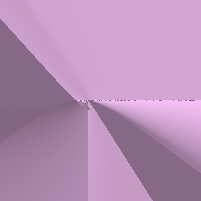
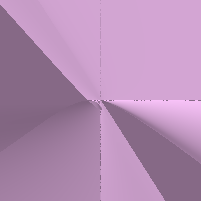
Adding some animation

diff --git a/anim.py b/anim.py
@@ -1,10 +1,12 @@
 # coding=utf-8
-
 from rayon import *
-import math
 from multiprocessing import Process
+import math
+import glob
+import time
+import os
+
 pi = 4. * math.atan(1.)
-#math.pi
 
 def rotaz( pt, theta):
 	c= math.cos( theta)
@@ -25,7 +27,15 @@ def string_of_int( n, nbch):
 		ch = ch + str( tabstr[i])  # ch += str( tabstr[i])
 	return ch
 
-def anim( cam, obj, nb, nom):
+def anim(cam, obj, nb, nom):
+	folder_name = nom.split('/')[0] # on récupère le nom du dossier
+
+	if not os.path.exists('./'+folder_name): # si le dossier n'existe pas on le crée
+		os.makedirs(folder_name)
+
+	t0= time.time()
+	print("starting "+folder_name+" imgs generation")
+	processes = []
 	for i in range( 0, nb):
 		theta= 2. * pi * float( i) / float( nb)
 		o2 = rotaz( cam.o, theta)
@@ -35,37 +45,135 @@ def anim( cam, obj, nb, nom):
 		cam2 = Camera( o2, ox2, oy2, oz2, cam.hsizeworld, cam.hsizewin, cam.soleil)
 		nom2 = nom + string_of_int( i, 10)
 		cam2.nom = nom2+'.png'
-		Process(target=raycasting,args=(cam2, obj)).start()
-		#raycasting( cam2, obj)
+		processes.append(Process(target=raycasting,args=(cam2, obj),name="generate_"+folder_name+"0"))
+	
+	count = 0
+	for p in processes: # on démarre le calcul de toutes les images
+		print(folder_name+"start"+str(count))
+		count+=1
+		p.start()
+	count2 = 0
+	for p in processes: # attend que toutes les images soient généré
+		print(folder_name+"join"+str(count2))
+		count2+=1
+		p.join()
+
+	t1 = time.time() - t0 # calcul le temps passer pour la génération des images
+	print(folder_name+" imgs were generated in "+str(t1)+" s")
+
+	frames = [] # on récupère toutes les images
+	for f in glob.iglob('./'+folder_name+'/*.png'):
+		frames.append(Image.open(f))
+
+	gif=Image.new("RGBA", (2*cam.hsizewin+1, 2*cam.hsizewin+1), (255,255,255,255)) # on crée le gif
+	gif.save('./'+folder_name+'/animation.gif', format='GIF', append_images=frames, save_all=True, duration=100, loop=0)
+	print("gif generated")
+	
 
 #https://imaginary.org/fr/node/2221
 
 tore = Prim(tore(0.45, 1.), (0,0, 255),200)
+zitrus = Prim(zitrus(),(255,200,255),255)
 boule = Prim(boule( (0., 2., -0.5), 1.), (255,0, 0), 150)
-roman = Prim( roman(), (255,200, 255),255)
+roman = Prim(roman(), (255,200, 255),255)
 solitude = Prim(solitude(),(255,200,255),255)
 miau = Prim(miau(),(255,200,255),255)
-zitrus = Prim(zitrus(),(255,200,255),255)
+steiner2 = Prim(steiner2(),(255,255,255),255)
+steiner4 = Prim(steiner4(),(255,255,255),255)
+hyperboloide_2nappes = Prim(hyperboloide_2nappes(),(255,255,255),255)
+hyperboloide_1nappe = Prim(hyperboloide_1nappe(),(255,255,255),255)
+bool_op = Union((Intersection((tore,boule)),Difference((tore,boule)))) # heavy 
 
-def zitrus_anim():
+def tore_anim():
+	object_name = "tore"
 	oeil=(-0,-4,0)
 	droite=  (1.,0.,0.)
 	regard=  (0.,1.,0.)
 	vertical=(0.,0.,1.)
-	#le repere local est tel que regard=oy, vertical=oz, droite=ox, o=oeil
-	#ox, oy,oz orthogonaux et normés
-	camera=Camera(oeil, droite, regard, vertical, 0.75, 100, normalize3((0., -1., 2.)))
-	camera.nom="IMG/zitrus"
-	anim( camera, zitrus, 20, "zitrus/zitrus")
+	camera=Camera(oeil, droite, regard, vertical, 1.5, 100, normalize3((0., -1., 2.)))
+	anim(camera, tore, 20, object_name+"/"+object_name)
 
-def miau_anim():
+def zitrus_anim():
+	object_name = "zitrus"
+	oeil=(-0,-4,0)
 	droite=  (1.,0.,0.)
 	regard=  (0.,1.,0.)
 	vertical=(0.,0.,1.)
-	#le repere local est tel que regard=oy, vertical=oz, droite=ox, o=oeil
-	#ox, oy,oz orthogonaux et normés
-	camera=Camera(oeil, droite, regard, vertical, 8, 100, normalize3((0., -1., 2.)))
-	camera.nom="IMG/miau"
-	anim( camera, miau, 20, "miau/miau")
+	camera=Camera(oeil, droite, regard, vertical, 0.75, 100, normalize3((0., -1., 2.)))
+	anim(camera, zitrus, 20, object_name+"/"+object_name)
 
-zitrus_anim()
+def solitude_anim():
+	object_name = "solitude"
+	oeil=(-0,-4,0)
+	droite=  (1.,0.,0.)
+	regard=  (0.,1.,0.)
+	vertical=(0.,0.,1.)
+	camera=Camera(oeil, droite, regard, vertical, 8, 100, normalize3((0., -1., 2.)))
+	anim(camera, solitude, 20, object_name+"/"+object_name)
+
+
+def miau_anim():
+	object_name = "miau"
+	oeil=(-0,-4,0)
+	droite=  (1.,0.,0.)
+	regard=  (0.,1.,0.)
+	vertical=(0.,0.,1.)
+	camera=Camera(oeil, droite, regard, vertical, 8, 100, normalize3((0., -1., 2.)))
+	anim(camera, miau, 20, object_name+"/"+object_name)
+
+def steiner2_anim():
+	object_name = "steiner2"
+	oeil=(-0,-4,0)
+	droite=  (1.,0.,0.)
+	regard=  (0.,1.,0.)
+	vertical=(0.,0.,1.)
+	camera=Camera(oeil, droite, regard, vertical, 10, 100, normalize3((0., -1., 2.)))
+	anim(camera, steiner2, 20, object_name+"/"+object_name)
+
+def steiner4_anim():
+	object_name = "steiner4"
+	oeil=(-0,-4,0)
+	droite=  (1.,0.,0.)
+	regard=  (0.,1.,0.)
+	vertical=(0.,0.,1.)
+	camera=Camera(oeil, droite, regard, vertical, 5, 100, normalize3((0., -1., 2.)))
+	anim(camera, steiner4, 20, object_name+"/"+object_name)
+
+def hyperboloide_2nappes():
+	object_name = "hyperboloide_2nappes"
+	oeil=(-0,-4,0)
+	droite=  (1.,0.,0.)
+	regard=  (0.,1.,0.)
+	vertical=(0.,0.,1.)
+	camera=Camera(oeil, droite, regard, vertical, 5, 100, normalize3((0., -1., 2.)))
+	anim(camera, hyperboloide_2nappes, 20, object_name+"/"+object_name)
+
+def hyperboloide_1nappes():
+	object_name = "hyperboloide_1nappes"
+	oeil=(-0,-4,0)
+	droite=  (1.,0.,0.)
+	regard=  (0.,1.,0.)
+	vertical=(0.,0.,1.)
+	camera=Camera(oeil, droite, regard, vertical, 5, 100, normalize3((0., -1., 2.)))
+	anim(camera, hyperboloide_1nappes, 20, object_name+"/"+object_name)
+
+def bool_op_anim():
+	object_name = "bool_op"
+	oeil=(-0,-4,0)
+	droite=  (1.,0.,0.)
+	regard=  (0.,1.,0.)
+	vertical=(0.,0.,1.)
+	camera=Camera(oeil, droite, regard, vertical, 1.5, 100, normalize3((0., -1., 2.)))
+	anim(camera, bool_op, 20, object_name+"/"+object_name)
+
+if __name__ == '__main__':
+	'''tore_anim()
+	zitrus_anim()
+	solitude_anim()
+	miau_anim()
+	#steiner2_anim()
+	#steiner4_anim()
+	'''
+	hyperboloide_2nappes()
+	hyperboloide_1nappes()
+	bool_op_anim()

diff --git a/rayon.py b/rayon.py
@@ -25,7 +25,6 @@ def normalize3(tup):
 def topolent(e):
     return e.topolent()
 
-
 class Rayon( object):
     def __init__(self, source, dir):
         self.source=source
@@ -55,7 +54,7 @@ class Camera( object):
     def topolent(self,e):
         return e.topolent()
 
-racines_precision = 1e-9
+racines_precision = 1e-8
 
 class Obj(object):
     def __init__(self):
@@ -227,9 +226,7 @@ def raycasting(cam, objet):
             (xpix+cam.hsizewin,
             2*cam.hsizewin-(zpix+cam.hsizewin)),
             (r,v,b,transparency))
-    img.show()
-    img.save( cam.nom)
-
+    img.save(cam.nom)
 
 vec = 10
 oeil=(1,-4,0)
@@ -241,30 +238,6 @@ vertical=(0.,0.,1)
 camera=Camera( oeil, droite, regard, vertical, 1.5, 100, normalize3((0., -1., 2.)))
 
 '''
-def test_zitrus():
-    oeil=(0,-2,0)
-    camera=Camera( oeil, droite, regard, vertical, 0.5, 100, normalize3((0., -1., 2.)))
-    camera.nom="zitrus.png"
-    raycasting(camera,zitrus)
-
-camera.nom="miau.png"
-raycasting(camera,miau)
-
-camera.nom="solitude.png"
-raycasting(camera,solitude)
-
-camera.nom="union-intersection-difference.png"
-u = Union((Intersection((tore,boule)),Difference((tore,boule))))
-raycasting(camera,u)
-
-
-camera.nom="intersection.png"
-raycastingIntersection(camera,tore,boule)
-
-camera.nom="difference.png"
-raycastingDifference(camera,tore,boule)
-
-
 camera.nom="boule.png"
 raycasting(camera,boule)
 
